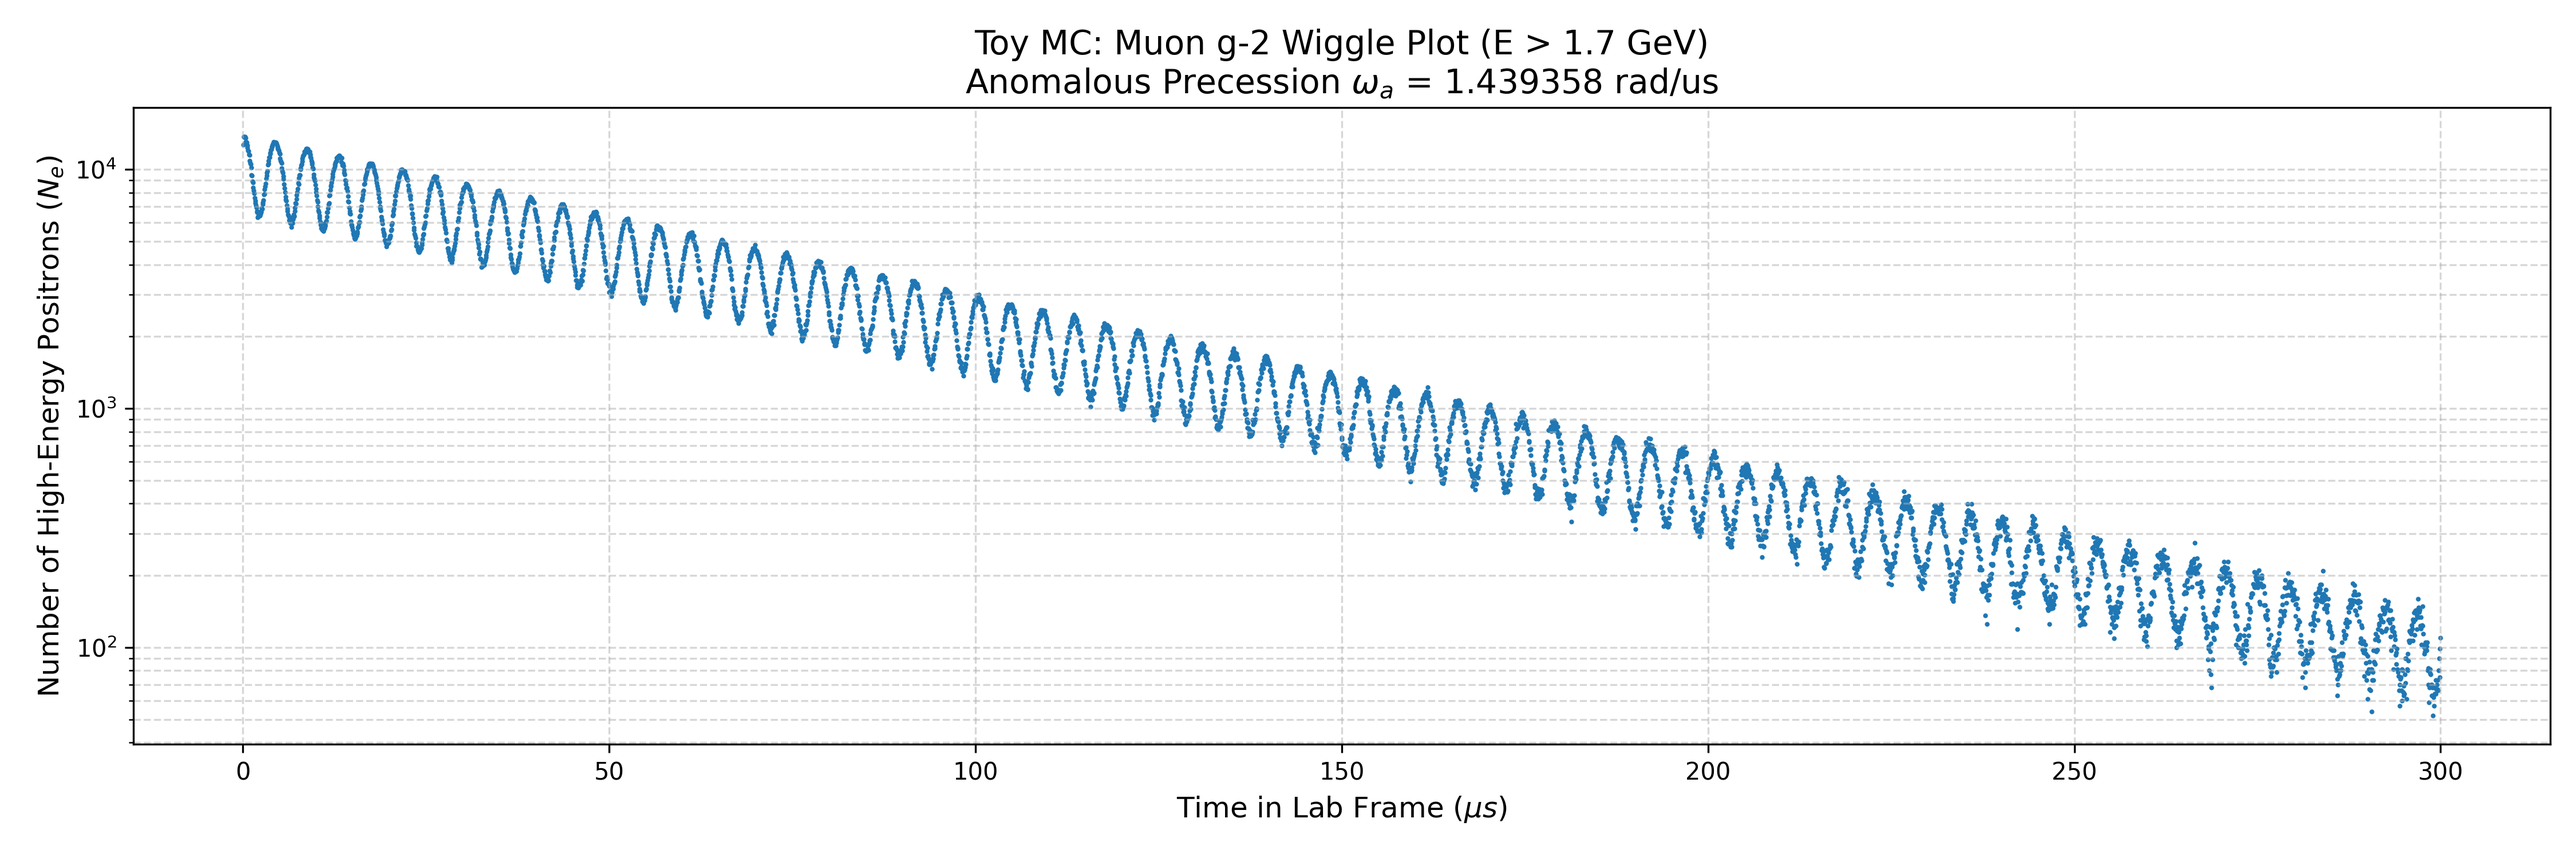
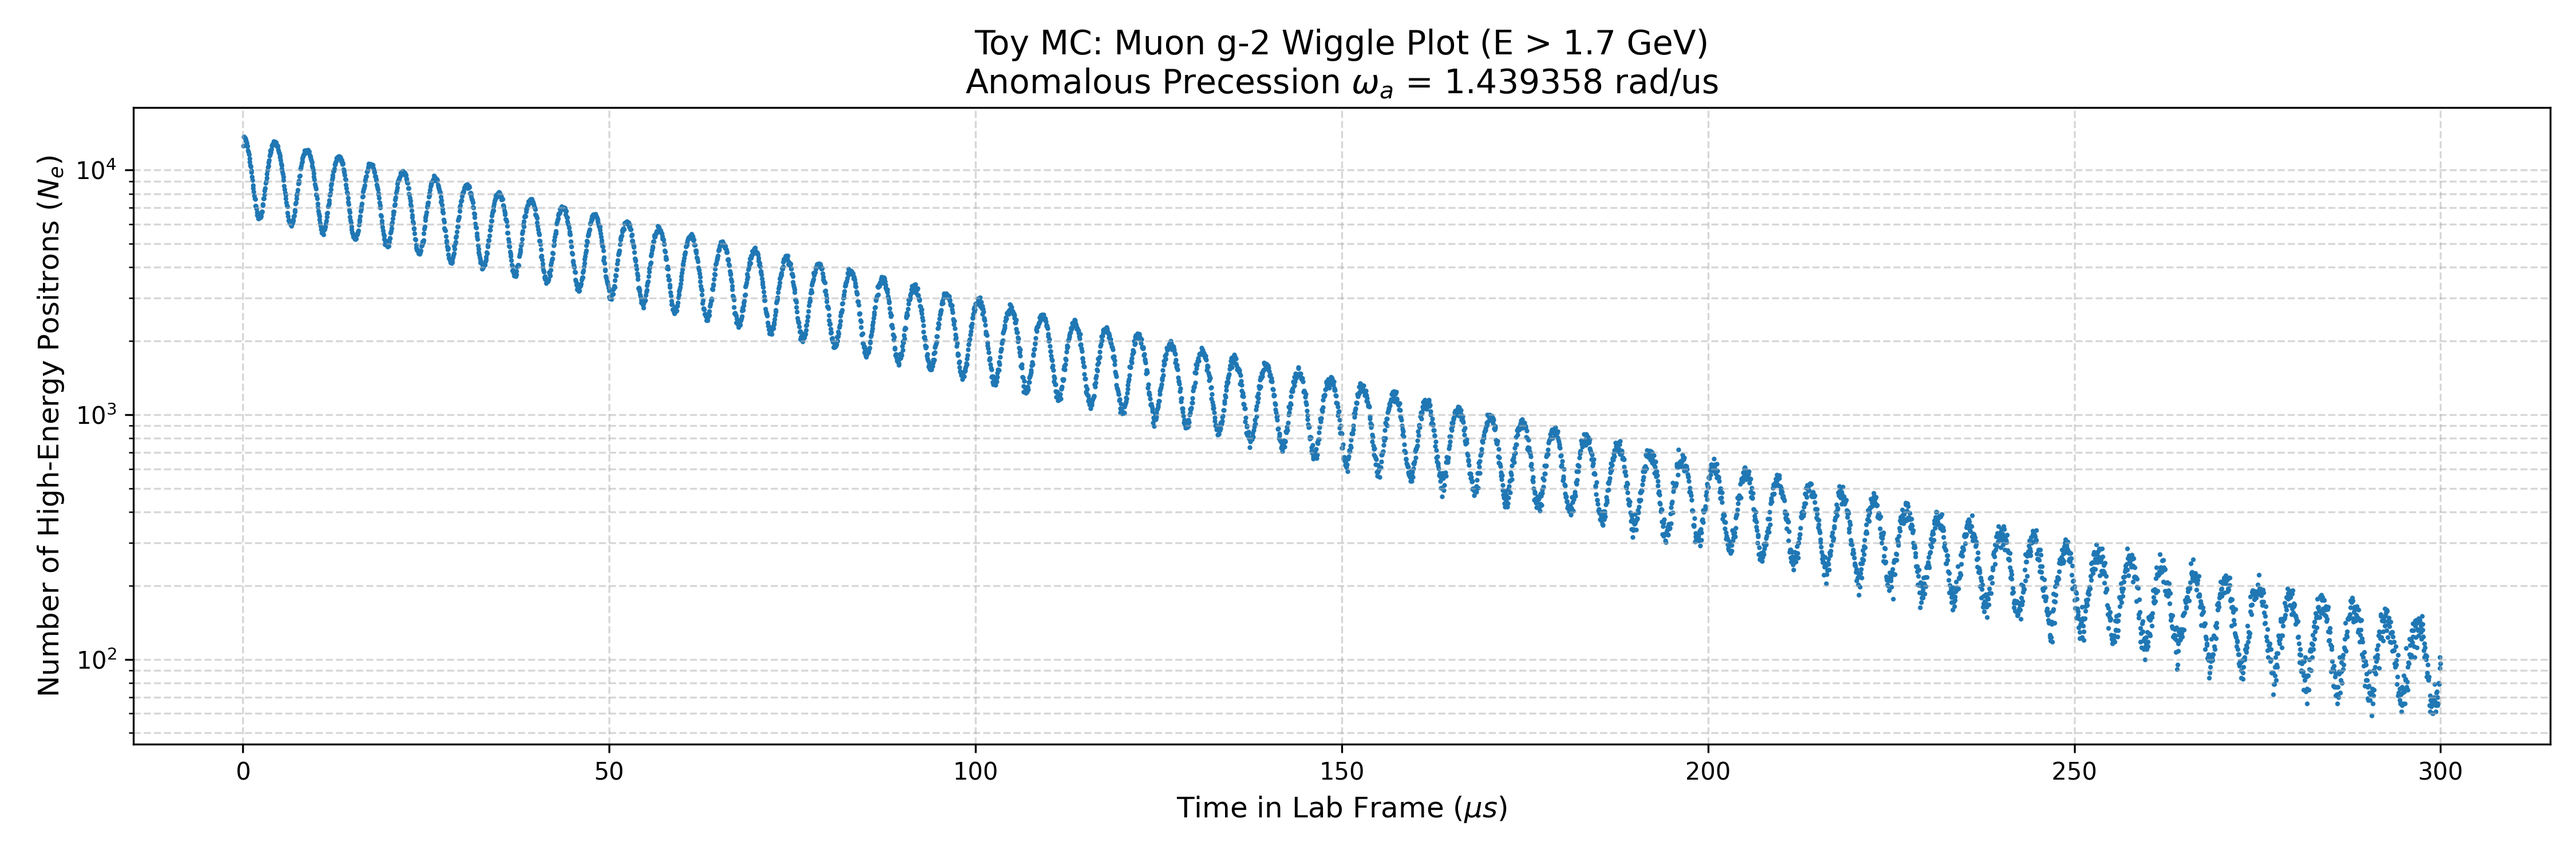
Refactor data handling and update file names for consistency; add new scripts for data generation and fitting analysis

Changed region(s): [[0.0311, 0.184, 0.9956, 0.8587]]

diff --git a/generation.py b/generation.py
@@ -28,8 +28,9 @@ def generation(N):
             p= np.sqrt(np.maximum(E**2 - M_E**2, 0)) # 计算正电子动量大小，使用 np.maximum 防止浮点误差导致负数求平方根
             pz = p * cos_theta # 计算正电子在 z 方向的动量分量
             E_lab = GAMMA * (E + BETA * pz) # 计算正电子在实验室参考系下的能量
-
-            results.append([T.round(2), E_lab.round(2)])
+            T=np.round(T, 2) # 将时间转换为微秒并保留两位小数
+            E_lab=np.round(E_lab, 2) # 保留两位小数
+            results.append([T, E_lab])
             count += 1
             print(f"\rProgress: {count}/{N} events generated", end="")
         else:

diff --git a/analysis.py b/analysis.py
@@ -4,7 +4,7 @@ import pandas as pd # 用于生成结构化的“探测器数据”表
 from scipy.optimize import curve_fit
 from constants import *
 
-file= "simulated_detector_data.csv"
+file= "Data_NEW.csv"
 
 try:
     data = np.genfromtxt(file, delimiter=",", names=True)

diff --git a/test files/change.py b/test files/change.py
@@ -1,0 +1,13 @@
+import pandas as pd
+
+df = pd.read_csv("Data copy.csv")
+
+print("Before:")
+print(df["Time_us"].head())
+
+df["Time_us"] = (df["Time_us"] * 1e-6).round(2)
+
+print("After:")
+print(df["Time_us"].head())
+
+df.to_csv("Data_NEW.csv", index=False)
